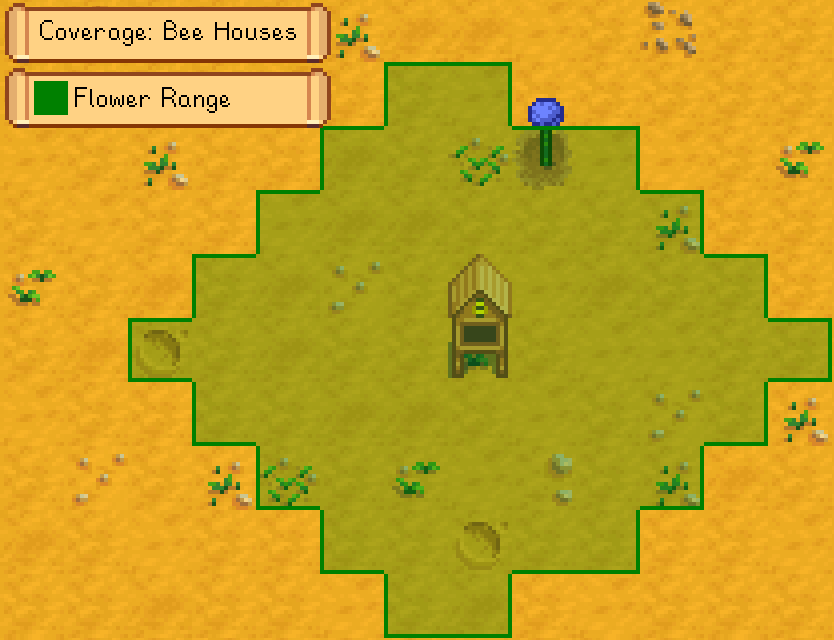
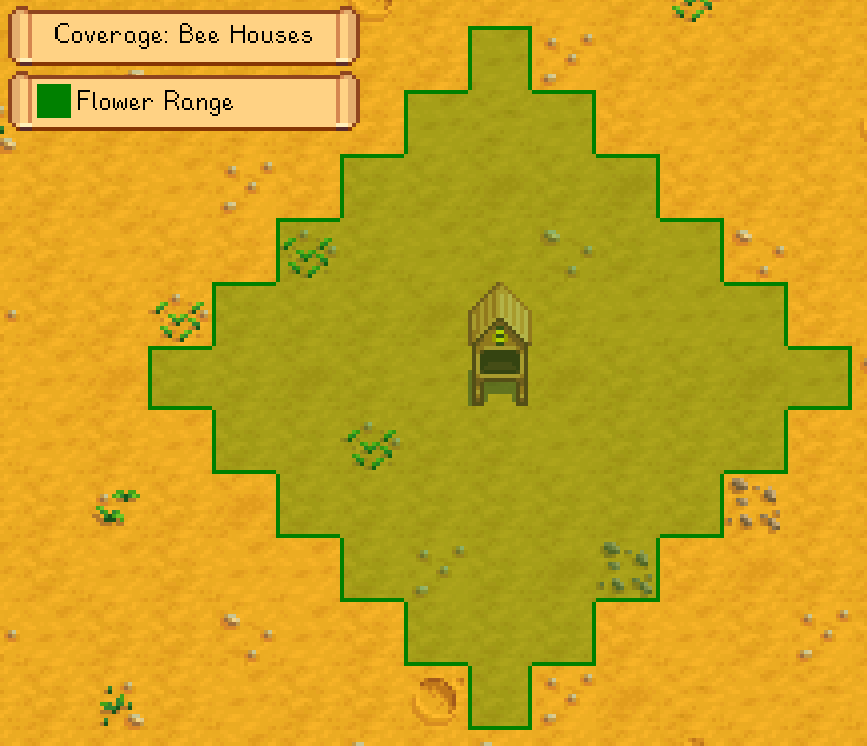
update for new bee house flower range in 1.4 (#403)

diff --git a/DataLayers/Layers/Coverage/BeeHouseLayer.cs b/DataLayers/Layers/Coverage/BeeHouseLayer.cs
@@ -1,3 +1,4 @@
+using System;
 using System.Collections.Generic;
 using System.Linq;
 using Microsoft.Xna.Framework;
@@ -34,8 +35,7 @@ namespace Pathoschild.Stardew.DataLayers.Layers.Coverage
         /// <summary>Construct an instance.</summary>
         /// <param name="translations">Provides translations in stored in the mod folder's i18n folder.</param>
         /// <param name="config">The data layer settings.</param>
-        /// <param name="hasBeeHouseFlowerRangeFix">Whether the player has the Bee House Flower Range Fix mod.</param>
-        public BeeHouseLayer(ITranslationHelper translations, LayerConfig config, bool hasBeeHouseFlowerRangeFix)
+        public BeeHouseLayer(ITranslationHelper translations, LayerConfig config)
             : base(translations.Get("bee-houses.name"), config)
         {
             this.Legend = new[]
@@ -44,7 +44,7 @@ namespace Pathoschild.Stardew.DataLayers.Layers.Coverage
             };
 
             this.RelativeRange = BeeHouseLayer
-                .GetRelativeCoverage(maxLoops: hasBeeHouseFlowerRangeFix ? 166 : 150)
+                .GetRelativeCoverage()
                 .ToArray();
         }
 
@@ -99,7 +99,7 @@ namespace Pathoschild.Stardew.DataLayers.Layers.Coverage
         /// <summary>Get a bee house tile radius.</summary>
         /// <param name="location">The bee house's location.</param>
         /// <param name="origin">The bee house's tile.</param>
-        /// <remarks>Derived from <see cref="SObject.checkForAction"/> and <see cref="Utility.findCloseFlower"/>.</remarks>
+        /// <remarks>Derived from <see cref="SObject.checkForAction"/> and <see cref="Utility.findCloseFlower(GameLocation, Vector2, int)"/>.</remarks>
         private IEnumerable<Vector2> GetCoverage(GameLocation location, Vector2 origin)
         {
             if (!(location is Farm))
@@ -110,20 +110,21 @@ namespace Pathoschild.Stardew.DataLayers.Layers.Coverage
         }
 
         /// <summary>Get the relative tiles covered by a bee house.</summary>
-        /// <param name="maxLoops">The maximum number of flood fill loops to run, which affects the range. The game uses 150 by default.</param>
-        /// <remarks>Derived from <see cref="Utility.findCloseFlower"/>.</remarks>
-        private static IEnumerable<Vector2> GetRelativeCoverage(int maxLoops = 150)
+        /// <remarks>Derived from <see cref="Utility.findCloseFlower(GameLocation, Vector2)"/>.</remarks>
+        private static IEnumerable<Vector2> GetRelativeCoverage()
         {
+            const int range = 5;
+
             Queue<Vector2> queue = new Queue<Vector2>();
             HashSet<Vector2> visited = new HashSet<Vector2>();
             queue.Enqueue(Vector2.Zero);
-            for (int i = 0; i <= maxLoops && queue.Count > 0; ++i)
+            for (int i = 0; queue.Count > 0; i++)
             {
                 Vector2 tile = queue.Dequeue();
                 yield return tile;
                 foreach (Vector2 adjacentTile in Utility.getAdjacentTileLocations(tile))
                 {
-                    if (!visited.Contains(adjacentTile))
+                    if (!visited.Contains(adjacentTile) && (Math.Abs(adjacentTile.X) + (double)Math.Abs(adjacentTile.Y)) <= range)
                         queue.Enqueue(adjacentTile);
                 }
                 visited.Add(tile);

diff --git a/DataLayers/Framework/ModIntegrations.cs b/DataLayers/Framework/ModIntegrations.cs
@@ -14,13 +14,6 @@ namespace Pathoschild.Stardew.DataLayers.Framework
     internal class ModIntegrations
     {
         /*********
-        ** Fields
-        *********/
-        /// <summary>An API for fetching metadata about loaded mods.</summary>
-        private readonly IModRegistry ModRegistry;
-
-
-        /*********
         ** Accessors
         *********/
         /// <summary>Handles access to the Automate mod.</summary>
@@ -57,8 +50,6 @@ namespace Pathoschild.Stardew.DataLayers.Framework
         /// <param name="reflection">An API for accessing private code.</param>
         public ModIntegrations(IMonitor monitor, IModRegistry modRegistry, IReflectionHelper reflection)
         {
-            this.ModRegistry = modRegistry;
-
             this.Automate = new AutomateIntegration(modRegistry, monitor);
             this.BetterJunimos = new BetterJunimosIntegration(modRegistry, monitor);
             this.BetterSprinklers = new BetterSprinklersIntegration(modRegistry, monitor);
@@ -67,13 +58,6 @@ namespace Pathoschild.Stardew.DataLayers.Framework
             this.PelicanFiber = new PelicanFiberIntegration(modRegistry, reflection, monitor);
             this.PrismaticTools = new PrismaticToolsIntegration(modRegistry, monitor);
             this.SimpleSprinkler = new SimpleSprinklerIntegration(modRegistry, monitor);
-        }
-
-        /// <summary>Get whether a mod has been loaded.</summary>
-        /// <param name="uniqueID">The mod's unique ID.</param>
-        public bool HasMod(string uniqueID)
-        {
-            return this.ModRegistry.IsLoaded(uniqueID);
         }
     }
 }

diff --git a/DataLayers/ModEntry.cs b/DataLayers/ModEntry.cs
@@ -84,7 +84,7 @@ namespace Pathoschild.Stardew.DataLayers
             if (layers.Buildable.IsEnabled())
                 yield return new BuildableLayer(translation, layers.Buildable);
             if (layers.CoverageForBeeHouses.IsEnabled())
-                yield return new BeeHouseLayer(translation, layers.CoverageForBeeHouses, hasBeeHouseFlowerRangeFix: mods.HasMod("kirbylink.beehousefix"));
+                yield return new BeeHouseLayer(translation, layers.CoverageForBeeHouses);
             if (layers.CoverageForScarecrows.IsEnabled())
                 yield return new ScarecrowLayer(translation, layers.CoverageForScarecrows, mods);
             if (layers.CoverageForSprinklers.IsEnabled())

diff --git a/DataLayers/release-notes.md b/DataLayers/release-notes.md
@@ -4,9 +4,9 @@ Released 26 November 2019.
 
 * Updated for Stardew Valley 1.4, including...
   * Deluxe Scarecrow;
-  * new areas and warps.
+  * new areas and warps;
+  * new bee house flower range.
 * Added `data-layers export` console command to export the current data layer to a JSON file.
-* The bee house range now accounts for the Bee House Flower Range Fix mod, if installed.
 * Updated for compatibility with the latest version of Pelican Fiber.
 * Improved translations. Thanks to shiro2579 (updated Portuguese)!
 

diff --git a/DataLayers/README.md b/DataLayers/README.md
@@ -96,7 +96,6 @@ Data Layers will automatically integrate with these mods if you they're installe
 mod installed     | effects
 ----------------- | ----------
 Automate          | Shows whether your machines are empty, processing, or ready to harvest.
-Bee House Flower Range Fix | Adjusts the bee house range to match.
 Better Junimos    | Shows custom Junimo hut coverage.
 Better Sprinklers | Shows custom sprinkler coverage.
 Cobalt            | Shows cobalt sprinkler coverage.
